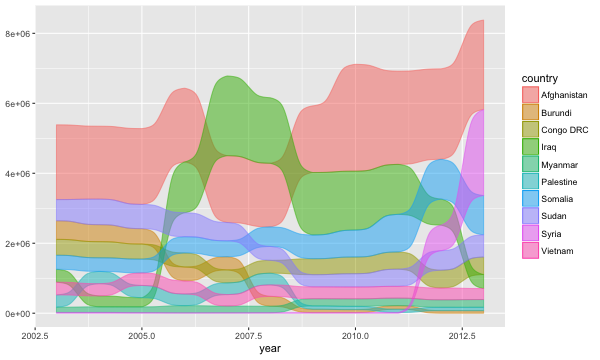
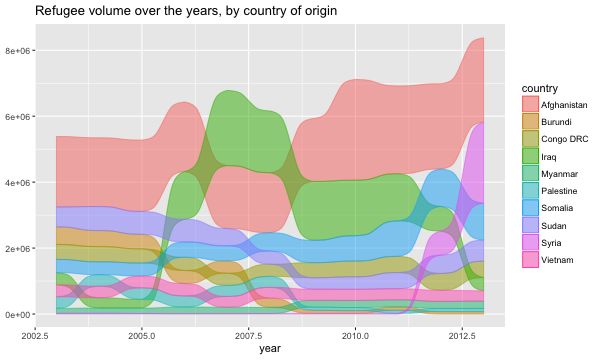
add titles to example figures

diff --git a/README.md b/README.md
@@ -74,7 +74,7 @@ ggplot(as.data.frame(Titanic),
   geom_stratum() + geom_text(stat = "stratum") +
   facet_wrap(~ Survived, scales = "free_y") +
   scale_x_continuous(breaks = 1:2, labels = c("Class", "Sex")) +
-  ggtitle("Titanic passenger demographic and survival data, by survival")
+  ggtitle("Titanic passenger data, faceted by survival")
 dev.off()
 ```
 
@@ -92,7 +92,8 @@ ggplot(as.data.frame(Titanic),
   geom_alluvium(axis_width = 1/12) +
   geom_stratum(fill = "black", color = "lightgrey", axis_width = 1/12) +
   scale_x_continuous(breaks = 1:3, labels = c("Age", "Sex", "Class")) +
-  geom_label(stat = "stratum")
+  geom_label(stat = "stratum") +
+  ggtitle("Titanic passenger data")
 dev.off()
 ```
 
@@ -107,7 +108,8 @@ data(Refugees, package = "alluvial")
 png(height = 360, width = 600, file = "inst/fig/example-ts.png")
 ggplot(Refugees,
        aes(x = year, group = country, weight = refugees)) +
-  geom_alluvium_ts(aes(fill = country, colour = country))
+  geom_alluvium_ts(aes(fill = country, colour = country)) +
+  ggtitle("Refugee volume over the years, by country of origin")
 dev.off()
 ```
 
